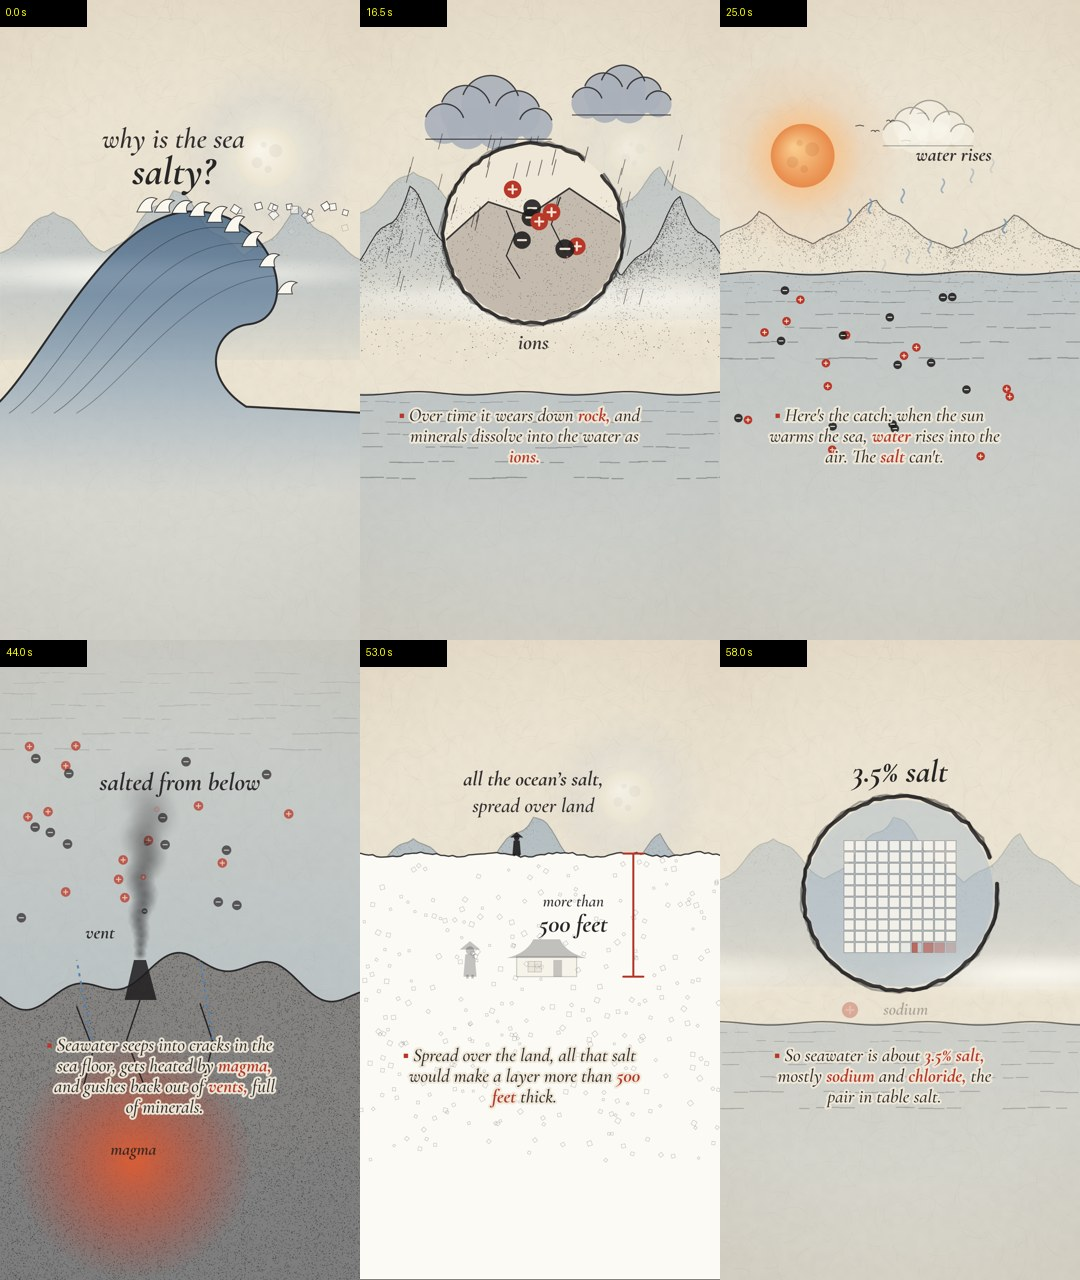
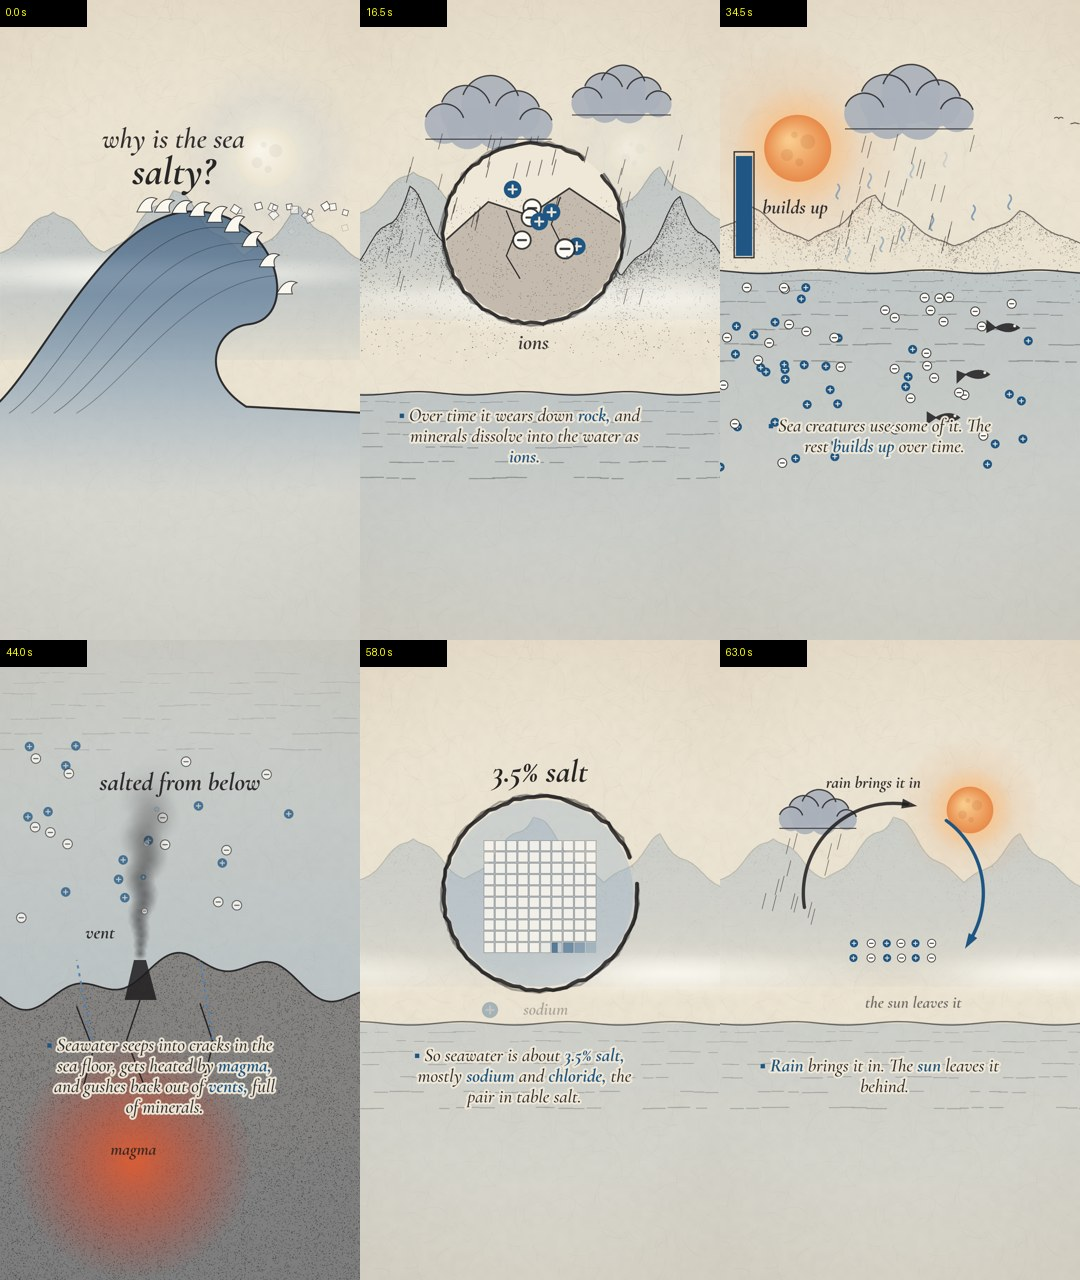
saltyocean: sea-blue/salt-white palette (main's note); feetasleep: voice to 70.1 s
Claude-Session: https://claude.ai/code/session_01BPYB3p1FWoUGpnGH5tCKNK

diff --git a/reels/t_saltyocean.js b/reels/t_saltyocean.js
@@ -4,12 +4,16 @@
 // Ions are the one accent: sodium in vermilion, chloride as ink dots. Hot vents breathe ink plumes from the sea floor.
 // Batch N layout: subtitle at y ~1240-1400 centred at x 500 (max width 720); nothing typed in the top 250 px or bottom 480 px;
 // titles sit at y >= 400 so the badge spot (44,260) stays clear.
-import { createInkMoon, W, H, TAU, clamp, lerp, seg, ss, eo, backOut, hash, PAPER, VERM, paper, range, putRange, mist, moon, birds, enso, ripples, serif, sealMark, parse, figure, house } from './styles/inkmoon/inkmoon.js';
+import { createInkMoon, W, H, TAU, clamp, lerp, seg, ss, eo, backOut, hash, PAPER, paper, range, putRange, mist, moon, birds, enso, ripples, serif, parse, figure, house } from './styles/inkmoon/inkmoon.js';
 await Promise.all(['italic 600 60px "Cormorant Garamond"', 'italic 700 60px "Cormorant Garamond"'].map(f => document.fonts.load(f)));
 const g = createInkMoon(document.getElementById('c'));
 const TL = window.TL, PH = TL.p, T = i => PH[i].start, E = i => PH[i].end, r = (i, d) => T(i) + d;
 const win = (t, a, b, f = .45) => ss(seg(t, a - f, a)) * (1 - ss(seg(t, b - f, b)));
 const ink = a => `rgba(30,28,30,${clamp(a)})`;
+// palette (EP 79 differs from goldfish EP 54): deep sea blue as the accent, salt white for chloride; warm only in the sun and magma
+const VERM = '#1f5683', SALT = '#fbfaf4';
+function sealMark(g, x, y, s, txt = '', a = 1) { if (a <= 0) return; g.save(); g.globalAlpha *= a; g.translate(x, y); g.rotate(-.04); g.fillStyle = VERM; g.fillRect(-s / 2, -s / 2, s, s);
+  g.strokeStyle = 'rgba(245,240,230,.85)'; g.lineWidth = 2; g.strokeRect(-s * .38, -s * .38, s * .76, s * .76); g.fillStyle = '#f4efe4'; g.font = `italic 700 ${s * .3}px "Cormorant Garamond"`; g.textAlign = 'center'; g.textBaseline = 'middle'; g.fillText(txt, 0, 1); g.restore(); }
 const sea_ = a => `rgba(120,150,178,${clamp(a)})`;
 const PAP = paper();
 const FAR = range([[160, 200, 300], [520, 260, 340], [900, 190, 300]], 780, { far: true, seed: 3, dots: 9000, col: '#9fb0bd' });
@@ -20,8 +24,8 @@ const LOW = range([[120, 120, 260], [470, 160, 280], [880, 110, 260]], 760, { se
 // sodium = vermilion bead with "+", chloride = ink bead with "−"
 function ion(x, y, s, na, a = 1) {
   if (a <= 0) return; g.save(); g.globalAlpha *= clamp(a); g.translate(x, y); g.scale(s, s);
-  g.fillStyle = na ? VERM : ink(.88); g.beginPath(); g.arc(0, 0, 11, 0, TAU); g.fill();
-  g.strokeStyle = 'rgba(246,236,220,.95)'; g.lineWidth = 2.6; g.lineCap = 'round'; g.beginPath(); g.moveTo(-5, 0); g.lineTo(5, 0); if (na) { g.moveTo(0, -5); g.lineTo(0, 5); } g.stroke(); g.restore();
+  g.fillStyle = na ? VERM : SALT; g.beginPath(); g.arc(0, 0, 11, 0, TAU); g.fill(); if (!na) { g.strokeStyle = ink(.85); g.lineWidth = 2.2; g.stroke(); }
+  g.strokeStyle = na ? 'rgba(246,236,220,.95)' : ink(.85); g.lineWidth = 2.6; g.lineCap = 'round'; g.beginPath(); g.moveTo(-5, 0); g.lineTo(5, 0); if (na) { g.moveTo(0, -5); g.lineTo(0, 5); } g.stroke(); g.restore();
 }
 function rainSt(x0, x1, y0, y1, t, k, { n = 40, sl = .25, len = 46, a = .55, seed = 1 } = {}) {
   if (k <= 0) return; g.save(); g.strokeStyle = ink(a * k); g.lineCap = 'round'; g.lineWidth = 2.2;
@@ -89,7 +93,7 @@ const CRUST = (() => { const c = document.createElement('canvas'); c.width = W; 
 function plume(x, y, t, k, { s = 1, hot = 0, h = 420 } = {}) {   // ink smoke billowing up from a vent
   if (k <= 0) return; g.save();
   for (let i = 0; i < 22; i++) { const u = ((t * .32 + i / 22) % 1), py = y - u * h * k, px = x + Math.sin(u * 7 + i) * 26 * u * s + u * u * 40 * s, pr = (16 + u * 70) * s;
-    const gr = g.createRadialGradient(px, py, 0, px, py, pr); const c = hot && i % 3 === 0 ? '184,56,42' : '30,28,30'; gr.addColorStop(0, `rgba(${c},${.55 * (1 - u) * k})`); gr.addColorStop(1, `rgba(${c},0)`); g.fillStyle = gr; g.beginPath(); g.arc(px, py, pr, 0, TAU); g.fill();
+    const gr = g.createRadialGradient(px, py, 0, px, py, pr); const c = hot && i % 3 === 0 ? '200,80,45' : '30,28,30'; gr.addColorStop(0, `rgba(${c},${.55 * (1 - u) * k})`); gr.addColorStop(1, `rgba(${c},0)`); g.fillStyle = gr; g.beginPath(); g.arc(px, py, pr, 0, TAU); g.fill();
     if (i % 4 === 0 && u > .1) ion(px + 14, py, .8, i % 8 === 0, (1 - u) * k); }
   g.restore();
 }

diff --git a/reels/tl_feetasleep.js b/reels/tl_feetasleep.js
@@ -1,1 +1,1 @@
-window.TL={"total": 68.146, "p": [{"i": 0, "cap": "Why does your foot **fall asleep?**", "start": 0.35, "end": 1.817}, {"i": 1, "cap": "But your foot isn't sleeping. A **nerve** is getting **squeezed.**", "start": 2.197, "end": 5.376}, {"i": 2, "cap": "Nerves are like **wires.** They carry signals between your foot and your **brain.**", "start": 6.076, "end": 10.099}, {"i": 3, "cap": "Sit on your leg too long, and the pressure squeezes a **nerve,** and the tiny **blood vessels** that feed it.", "start": 10.479, "end": 15.912}, {"i": 4, "cap": "The signals get **blocked.** Your brain stops hearing from your foot, so it feels **numb.**", "start": 16.292, "end": 20.833}, {"i": 5, "cap": "Now the weird part: the worst feeling comes **after** you move.", "start": 21.533, "end": 24.734}, {"i": 6, "cap": "The pressure lifts, blood flows back in, and the nerve starts **waking up.**", "start": 25.114, "end": 28.975}, {"i": 7, "cap": "But not all at once. Some fibres stay quiet, and others fire **too much.**", "start": 29.355, "end": 33.566}, {"i": 8, "cap": "That messy restart is **pins and needles:** the tingle, the buzz, the prickle.", "start": 33.946, "end": 38.28}, {"i": 9, "cap": "And it's not just feet. Fall asleep on your **arm,** and your hand goes dead too.", "start": 38.98, "end": 43.015}, {"i": 10, "cap": "The fix? **Move.** Shift your weight, wiggle your toes, and it fades **quickly.**", "start": 43.395, "end": 47.485}, {"i": 11, "cap": "So your foot never slept. A squeezed nerve lost its **signal,** and pins and needles is it **coming back.**", "start": 48.185, "end": 54.226}, {"i": 12, "cap": "Now and then, it's **harmless.** If it happens often, with no pressure, or with weakness, see a **doctor.**", "start": 54.606, "end": 60.299}, {"i": 13, "cap": "Which falls asleep on you more: your **foot,** or your **arm?**", "start": 60.999, "end": 63.921}, {"i": 14, "cap": "Follow for more of **how it really works.**", "start": 64.301, "end": 66.166}]};
+window.TL={"total": 70.097, "p": [{"i": 0, "cap": "Why does your foot **fall asleep?**", "start": 0.35, "end": 1.853}, {"i": 1, "cap": "But your foot isn't sleeping. A **nerve** is getting **squeezed.**", "start": 2.233, "end": 5.452}, {"i": 2, "cap": "Nerves are like **wires.** They carry signals between your foot and your **brain.**", "start": 6.152, "end": 10.264}, {"i": 3, "cap": "Sit on your leg too long, and the pressure squeezes a **nerve,** and the tiny **blood vessels** that feed it.", "start": 10.644, "end": 16.245}, {"i": 4, "cap": "The signals get **blocked.** Your brain stops hearing from your foot, so it feels **numb.**", "start": 16.625, "end": 21.247}, {"i": 5, "cap": "Now the weird part: the worst feeling comes **after** you move.", "start": 21.947, "end": 25.247}, {"i": 6, "cap": "The pressure lifts, blood flows back in, and the nerve starts **waking up.**", "start": 25.627, "end": 29.563}, {"i": 7, "cap": "But not all at once. Some fibres stay quiet, and others fire **too much.**", "start": 30.263, "end": 34.563}, {"i": 8, "cap": "That messy restart is **pins and needles:** the tingle, the buzz, the prickle.", "start": 34.943, "end": 39.397}, {"i": 9, "cap": "And it's not just feet. Fall asleep on your **arm,** and your hand goes dead too.", "start": 40.097, "end": 44.306}, {"i": 10, "cap": "The fix? **Move.** Shift your weight, wiggle your toes, and it fades **quickly.**", "start": 45.006, "end": 49.202}, {"i": 11, "cap": "So your foot never slept. A squeezed nerve lost its **signal,** and pins and needles is it **coming back.**", "start": 49.902, "end": 56.049}, {"i": 12, "cap": "Now and then, it's **harmless.** If it happens often, with no pressure, or with weakness, see a **doctor.**", "start": 56.429, "end": 62.156}, {"i": 13, "cap": "Which falls asleep on you more: your **foot,** or your **arm?**", "start": 62.856, "end": 65.841}, {"i": 14, "cap": "Follow for more of **how it really works.**", "start": 66.221, "end": 68.117}]};

diff --git a/jobs/saltyocean/NOTES.md b/jobs/saltyocean/NOTES.md
@@ -1,7 +1,7 @@
 # saltyocean: NOTES (EP 79)
 
 - **Template:** #25 Ink moon (demo t25), via styles/inkmoon (the module behind goldfishmemory). Picked to avoid the EP 71-78 families.
-- **Why this template:** the ocean salt story is a landscape water cycle: mountains in mist, rain as brush streaks, a river to the sea, the sun lifting water. Ink moon draws exactly that. Ions are the one accent: sodium as vermilion beads, chloride as ink beads.
+- **Why this template:** the ocean salt story is a landscape water cycle: mountains in mist, rain as brush streaks, a river to the sea, the sun lifting water. Ink moon draws exactly that. Ions are the one accent: sodium as deep sea-blue beads, chloride as salt-white beads. The palette is sea blue + salt white (no vermilion or plum) so it reads apart from goldfish (EP 54, same template), per the main session; warm colour stays only in the sun and magma.
 - **Scenes:**
   - frame 0: a huge Hokusai-like breaking wave with salt crystals in the spray; a "fresh" river spills in;
   - rain over big stippled mountains, CO₂ bubbles; an ensō close-up of a rock cracking and letting go of ions; a river carrying ions to the sea;
